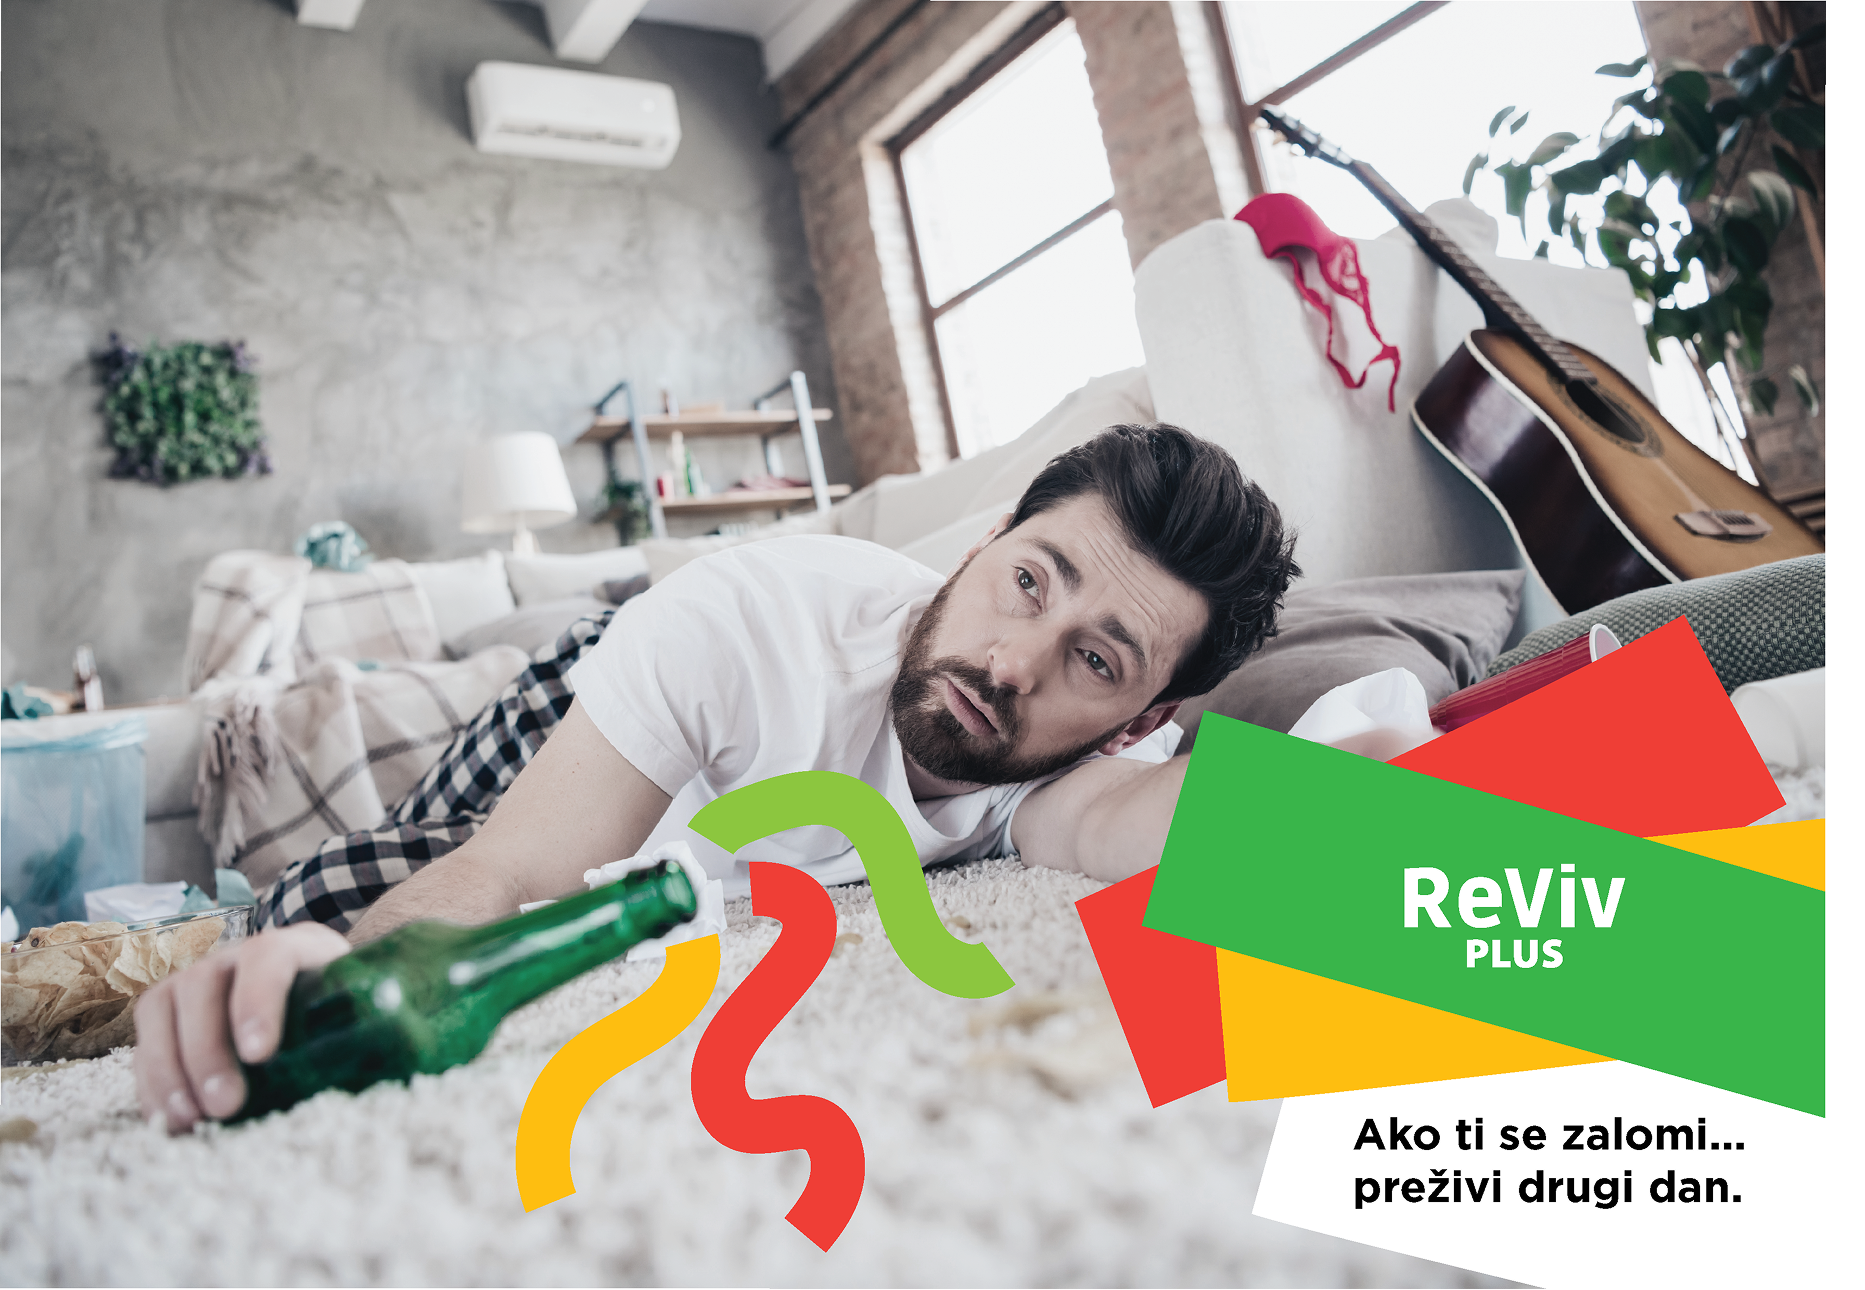
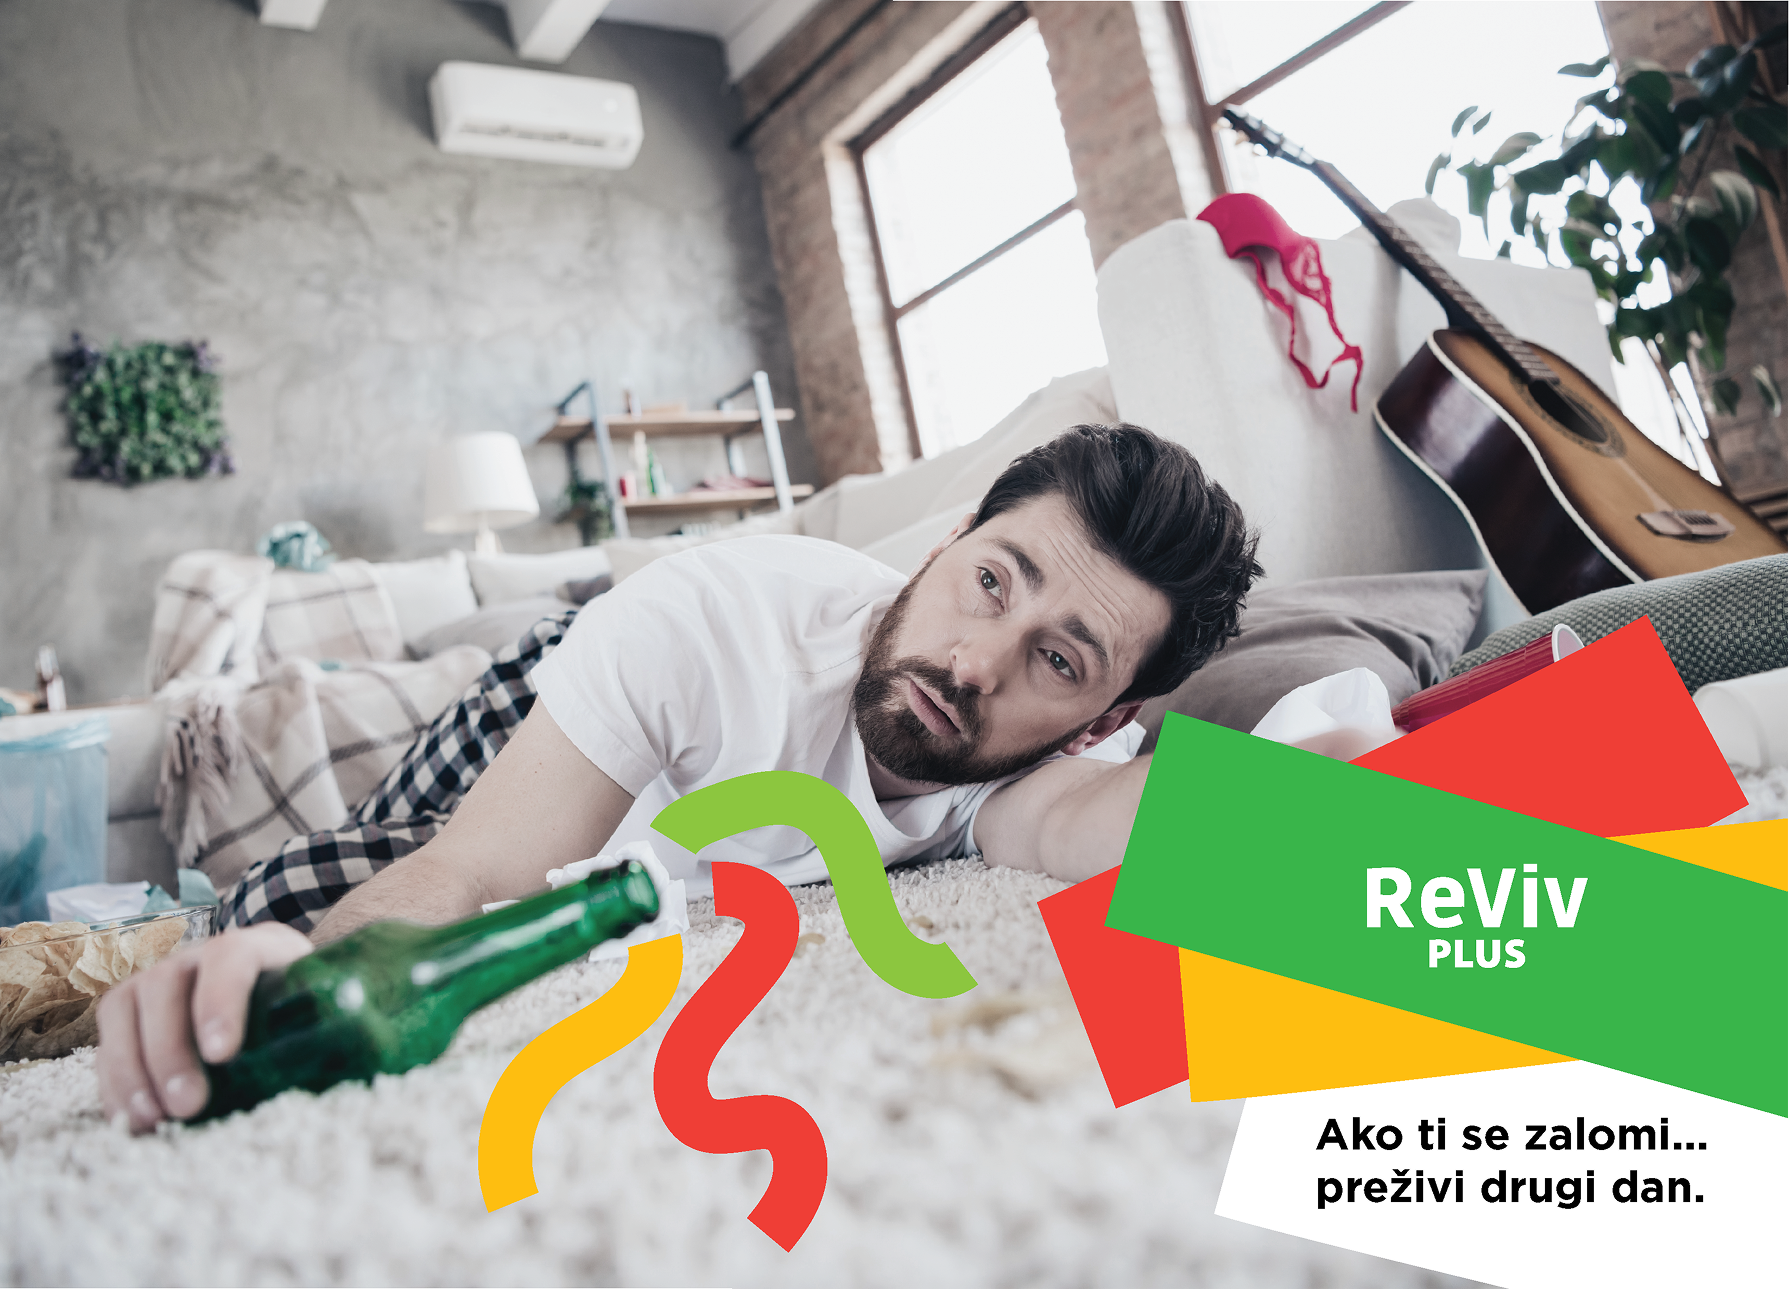
working on container blocks and testimonal page

diff --git a/index.html b/index.html
@@ -58,7 +58,6 @@
                 <div class="navbar-nav ms-auto">
                     <a href="index.html" class="nav-item nav-link active">Naslovna</a>
                     <a href="#about" class="nav-item nav-link">O ReViv PLUS-u</a>
-                    <a href="#features" class="nav-item nav-link">Značajke</a>
                     <a href="#how-to-use" class="nav-item nav-link">Kako koristiti?</a>
                     <a href="#contact" class="nav-item nav-link">Kontakt</a>
                 </div>
@@ -79,42 +78,42 @@
 <!-- Hero End -->
 
 
-    <!-- Feature Start -->
-    <div class="container-fluid py-5">
-        <div class="container">
-            <div class="row g-4">
-                <div id="hangover"  class="col-lg-4 wow fadeIn" data-wow-delay="0.1s">
-                    <div class="feature-item position-relative text-center p-3">
-                        <div class="border py-5 px-3">
-                            <img class="feature-icon" src="icons/hangover.png">
-                            <h5 class="text-white mb-0">Smanjuje osjećaj mamurluka</h5>
-                        </div>
+<!-- Feature Start -->
+<div id="about" class="container-fluid py-5">
+    <div class="container">
+        <div class="row g-4">
+            <div id="hangover" class="col-lg-4 wow fadeIn" data-wow-delay="0.1s">
+                <div class="feature-item position-relative text-center p-3">
+                    <div class="border py-5 px-3">
+                        <img class="feature-icon" src="icons/hangover.png">
+                        <h5 class="text-white mb-0">Smanjuje osjećaj mamurluka</h5>
                     </div>
                 </div>
-                <div id="headache" class="col-lg-4 wow fadeIn" data-wow-delay="0.3s">
-                    <div class="feature-item position-relative text-center p-3">
-                        <div class="border py-5 px-3">
-                            <img class="feature-icon"  src="icons/headache.png">
-                            <h5 class="text-white mb-0">Smanjuje mučninu i glavobolju</h5>
-                        </div>
+            </div>
+            <div id="headache" class="col-lg-4 wow fadeIn" data-wow-delay="0.3s">
+                <div class="feature-item position-relative text-center p-3">
+                    <div class="border py-5 px-3">
+                        <img class="feature-icon" src="icons/headache.png">
+                        <h5 class="text-white mb-0">Smanjuje mučninu i glavobolju</h5>
                     </div>
                 </div>
-                <div id="liver" class="col-lg-4 wow fadeIn" data-wow-delay="0.5s">
-                    <div class="feature-item position-relative text-center p-3">
-                        <div class="border py-5 px-3">
-                            <img class="feature-icon"  src="icons/liver.png">
-                            <h5 class="text-white mb-0">Poboljšava zdravlje jetre</h5>
-                        </div>
+            </div>
+            <div id="liver" class="col-lg-4 wow fadeIn" data-wow-delay="0.5s">
+                <div class="feature-item position-relative text-center p-3">
+                    <div class="border py-5 px-3">
+                        <img class="feature-icon" src="icons/liver.png">
+                        <h5 class="text-white mb-0">Poboljšava zdravlje jetre</h5>
                     </div>
                 </div>
             </div>
         </div>
     </div>
-    <!-- Feature End -->
+</div>
+<!-- Feature End -->
 
 
 <!-- About Start -->
-<div id="about" class="container-fluid py-5">
+<div class="container-fluid py-5">
     <div class="container">
         <div class="row g-5 align-items-center">
             <div class="col-lg-6 wow fadeIn" data-wow-delay="0.1s">
@@ -137,7 +136,7 @@
 
 
 <!-- Deal Start -->
-<div class="container-fluid deal bg-primary my-5 py-5">
+<div class="container-fluid deal my-5 py-5">
     <div class="container py-5">
         <div class="row g-5 align-items-center">
             <div class="col-lg-6 wow fadeIn" data-wow-delay="0.1s">
@@ -195,7 +194,7 @@
                         </div>
                         <div class="ps-3">
                             <h5>Natural & Organic</h5>
-                            <hr class="w-25 bg-primary my-2">
+                            <hr class="w-25  my-2">
                             <span>Lorem ipsum dolor sit amet adipiscing elit aliquet.</span>
                         </div>
                     </div>
@@ -206,7 +205,7 @@
                         </div>
                         <div class="ps-3">
                             <h5>Anti Hair Fall</h5>
-                            <hr class="w-25 bg-primary my-2">
+                            <hr class="w-25  my-2">
                             <span>Lorem ipsum dolor sit amet adipiscing elit aliquet.</span>
                         </div>
                     </div>
@@ -217,7 +216,7 @@
                         </div>
                         <div class="ps-3">
                             <h5>Anti-dandruff</h5>
-                            <hr class="w-25 bg-primary my-2">
+                            <hr class="w-25  my-2">
                             <span>Lorem ipsum dolor sit amet adipiscing elit aliquet.</span>
                         </div>
                     </div>
@@ -235,7 +234,7 @@
                         </div>
                         <div class="ps-3">
                             <h5>No Internal Side Effect</h5>
-                            <hr class="w-25 bg-primary my-2">
+                            <hr class="w-25  my-2">
                             <span>Lorem ipsum dolor sit amet adipiscing elit aliquet.</span>
                         </div>
                     </div>
@@ -246,7 +245,7 @@
                         </div>
                         <div class="ps-3">
                             <h5>No Skin Irritation</h5>
-                            <hr class="w-25 bg-primary my-2">
+                            <hr class="w-25  my-2">
                             <span>Lorem ipsum dolor sit amet adipiscing elit aliquet.</span>
                         </div>
                     </div>
@@ -257,7 +256,7 @@
                         </div>
                         <div class="ps-3">
                             <h5>No Artificial Smell</h5>
-                            <hr class="w-25 bg-primary my-2">
+                            <hr class="w-25  my-2">
                             <span>Lorem ipsum dolor sit amet adipiscing elit aliquet.</span>
                         </div>
                     </div>
@@ -270,7 +269,7 @@
 
 
 <!-- How To Use Start -->
-<div id="how-to-use" class="container-fluid how-to-use bg-primary my-5 py-5">
+<div id="how-to-use" class="container-fluid how-to-use my-5 py-5">
     <div class="container text-white py-5">
         <div class="mx-auto text-center wow fadeIn" data-wow-delay="0.1s" style="max-width: 600px;">
             <h1 class="text-white mb-3"><span class="fw-light text-dark">How To Use Our</span> Natural & Organic
@@ -389,11 +388,11 @@
 
 
 <!-- Testimonial Start -->
-<div class="container-fluid testimonial bg-primary my-5 py-5">
+<div class="container-fluid testimonial my-5 py-5">
     <div class="container text-white py-5">
         <div class="mx-auto text-center wow fadeIn" data-wow-delay="0.1s" style="max-width: 600px;">
-            <h1 class="text-white mb-3">Our Customer Said <span
-                    class="fw-light text-dark">About Our Natural Shampoo</span></h1>
+            <h1 class="text-white mb-3">Što naši korisnici<span
+                    class="fw-light text-dark">kažu o ReViv PLUS-u</span></h1>
             <p class="mb-5">Lorem ipsum dolor sit amet, consectetur adipiscing elit. Duis aliquet, erat non malesuada
                 consequat, nibh erat tempus risus.</p>
         </div>
@@ -439,28 +438,28 @@
     <div class="container">
         <div class="row g-4">
             <div class="col-lg-4 wow fadeIn" data-wow-delay="0.1s">
-                <div class="contact-info-item position-relative bg-primary text-center p-3">
+                <div class="contact-info-item position-relative  text-center p-3">
                     <div class="border py-5 px-3">
                         <i class="fa fa-map-marker-alt fa-3x text-dark mb-4"></i>
-                        <h5 class="text-white">Office Address</h5>
+                        <h5 class="text-white">Posjetite nas</h5>
                         <h5 class="fw-light text-white">123 Street, New York, USA</h5>
                     </div>
                 </div>
             </div>
             <div class="col-lg-4 wow fadeIn" data-wow-delay="0.3s">
-                <div class="contact-info-item position-relative bg-primary text-center p-3">
+                <div class="contact-info-item position-relative  text-center p-3">
                     <div class="border py-5 px-3">
                         <i class="fa fa-phone-alt fa-3x text-dark mb-4"></i>
-                        <h5 class="text-white">Call Us</h5>
+                        <h5 class="text-white">Nazovite nas</h5>
                         <h5 class="fw-light text-white">+012 345 67890</h5>
                     </div>
                 </div>
             </div>
             <div class="col-lg-4 wow fadeIn" data-wow-delay="0.5s">
-                <div class="contact-info-item position-relative bg-primary text-center p-3">
+                <div class="contact-info-item position-relative  text-center p-3">
                     <div class="border py-5 px-3">
                         <i class="fa fa-envelope fa-3x text-dark mb-4"></i>
-                        <h5 class="text-white">Mail Us</h5>
+                        <h5 class="text-white">Pošaljite nam email</h5>
                         <h5 class="fw-light text-white">info@example.com</h5>
                     </div>
                 </div>
@@ -475,8 +474,8 @@
 <div id="contact" class="container-fluid py-5">
     <div class="container">
         <div class="mx-auto text-center wow fadeIn" data-wow-delay="0.1s" style="max-width: 600px;">
-            <h1 class="text-primary mb-5"><span class="fw-light text-dark">If You Have Any Query,</span> Please Contact
-                Us</h1></div>
+            <h1 class="mb-5"><span class="fw-light text-dark">Ako imate bilo kakvih pitanja,</span> slobodno
+            nam se javite</h1></div>
         <div class="row g-5">
             <div class="col-lg-7 wow fadeIn" data-wow-delay="0.1s">
                 <p class="mb-4">The contact form is currently inactive. Get a functional and working contact form with
@@ -528,27 +527,6 @@
 </div>
 <!-- Contact End -->
 
-<!-- Newsletter Start -->
-<div class="container-fluid newsletter bg-primary py-5 my-5">
-    <div class="container py-5">
-        <div class="mx-auto text-center wow fadeIn" data-wow-delay="0.1s" style="max-width: 600px;">
-            <h1 class="text-white mb-3"><span class="fw-light text-dark">Let's Subscribe</span> The Newsletter</h1>
-            <p class="text-white mb-4">Subscribe now to get 30% discount on any of our products</p>
-        </div>
-        <div class="row justify-content-center">
-            <div class="col-md-7 wow fadeIn" data-wow-delay="0.5s">
-                <div class="position-relative w-100 mt-3 mb-2">
-                    <input class="form-control w-100 py-4 ps-4 pe-5" type="text" placeholder="Enter Your Email"
-                           style="height: 48px;">
-                    <button type="button" class="btn shadow-none position-absolute top-0 end-0 mt-1 me-2"><i
-                            class="fa fa-paper-plane text-white fs-4"></i></button>
-                </div>
-            </div>
-        </div>
-    </div>
-</div>
-<!-- Newsletter End -->
-
 
 <!-- Footer Start -->
 <div class="container-fluid bg-white footer">
@@ -556,7 +534,7 @@
         <div class="row g-5">
             <div class="col-md-6 col-lg-3 wow fadeIn" data-wow-delay="0.1s">
                 <a href="index.html" class="d-inline-block mb-3">
-                    <h1 class="text-primary">Hairnic</h1>
+                    <img height="100" src="img/footer_logo.png" alt="">
                 </a>
                 <p class="mb-0">Lorem ipsum dolor sit amet, consectetur adipiscing elit. Duis aliquet, erat non
                     malesuada consequat, nibh erat tempus risus, vitae porttitor purus nisl vitae purus.</p>
@@ -567,11 +545,11 @@
                 <p><i class="fa fa-phone-alt me-3"></i>+012 345 67890</p>
                 <p><i class="fa fa-envelope me-3"></i>info@example.com</p>
                 <div class="d-flex pt-2">
-                    <a class="btn btn-square btn-outline-primary me-1" href=""><i class="fab fa-twitter"></i></a>
-                    <a class="btn btn-square btn-outline-primary me-1" href=""><i class="fab fa-facebook-f"></i></a>
                     <a class="btn btn-square btn-outline-primary me-1" href=""><i class="fab fa-instagram"></i></a>
+                    <a class="btn btn-square btn-outline-primary me-1" href=""><i class="fab fa-facebook-f"></i></a>
                     <a class="btn btn-square btn-outline-primary me-1" href=""><i
                             class="fab fa-linkedin-in"></i></a>
+                    <a class="btn btn-square btn-outline-primary me-1" href=""><i class="fab fa-twitter"></i></a>
                 </div>
             </div>
             <div class="col-md-6 col-lg-3 wow fadeIn" data-wow-delay="0.5s">
@@ -598,7 +576,6 @@
                 <div class="col-md-6 text-center text-md-start mb-3 mb-md-0">
                     &copy; <a class="border-bottom" href="#">Your Site Name</a>, All Right Reserved.
 
-                    <!--/*** This template is free as long as you keep the footer author’s credit link/attribution link/backlink. If you'd like to use the template without the footer author’s credit link/attribution link/backlink, you can purchase the Credit Removal License from "https://htmlcodex.com/credit-removal". Thank you for your support. ***/-->
                     Designed By <a class="border-bottom" href="https://htmlcodex.com">HTML Codex</a> Distributed by <a
                         href="https://themewagon.com">ThemeWagon</a>
                 </div>

diff --git a/css/style.css b/css/style.css
@@ -84,7 +84,7 @@ img.animated.pulse {
 
 .navbar .navbar-nav .nav-link:hover,
 .navbar .navbar-nav .nav-link.active {
-    color: var(--bs-white);
+    color: #8DC63F;
     font-weight: bolder;
 }
 
@@ -100,7 +100,7 @@ img.animated.pulse {
 @media (max-width: 991.98px) {
     .navbar .navbar-nav {
         padding: 0 15px;
-        background: var(--bs-primary);
+        background: #ffffff;
     }
 
     .navbar .navbar-nav .nav-link {
@@ -133,7 +133,7 @@ img.animated.pulse {
 .hero-header {
     position: relative;
     padding-top: 12rem;
-    padding-bottom: 55rem;
+    padding-bottom: 50rem;
     background: url(../img/bg.png) center center no-repeat;
     background-size: cover;
 }
@@ -271,7 +271,7 @@ img.animated.pulse {
 /*** Testimonial ***/
 .testimonial {
     position: relative;
-    background: url(../img/bg.png) center center no-repeat;
+    background: url(../img/testimonial_bg.png) center center no-repeat;
     background-size: cover;
 }
 
@@ -350,13 +350,12 @@ img.animated.pulse {
     height: 100%;
     top: 0;
     left: 0;
-    background: rgba(255, 255, 255, .1);
-    clip-path: polygon(66% 0, 100% 0, 100% 100%, 33% 100%);
+    background: #8DC63F !important;
 }
 
 .contact-info-item .border {
     position: relative;
-    border-color: rgba(255, 255, 255, .2) !important;
+    border-color: transparent !important;
     z-index: 1;
 }
 

diff --git a/js/main.js b/js/main.js
@@ -19,9 +19,9 @@
     // Sticky Navbar
     $(window).scroll(function () {
         if ($(this).scrollTop() > 300) {
-            $('.sticky-top').addClass('bg-primary shadow-sm').css('top', '0px');
+            $('.sticky-top').addClass('bg-white shadow-sm').css('top', '0px');
         } else {
-            $('.sticky-top').removeClass('bg-primary shadow-sm').css('top', '-150px');
+            $('.sticky-top').removeClass('bg-white shadow-sm').css('top', '-150px');
         }
     });
     
